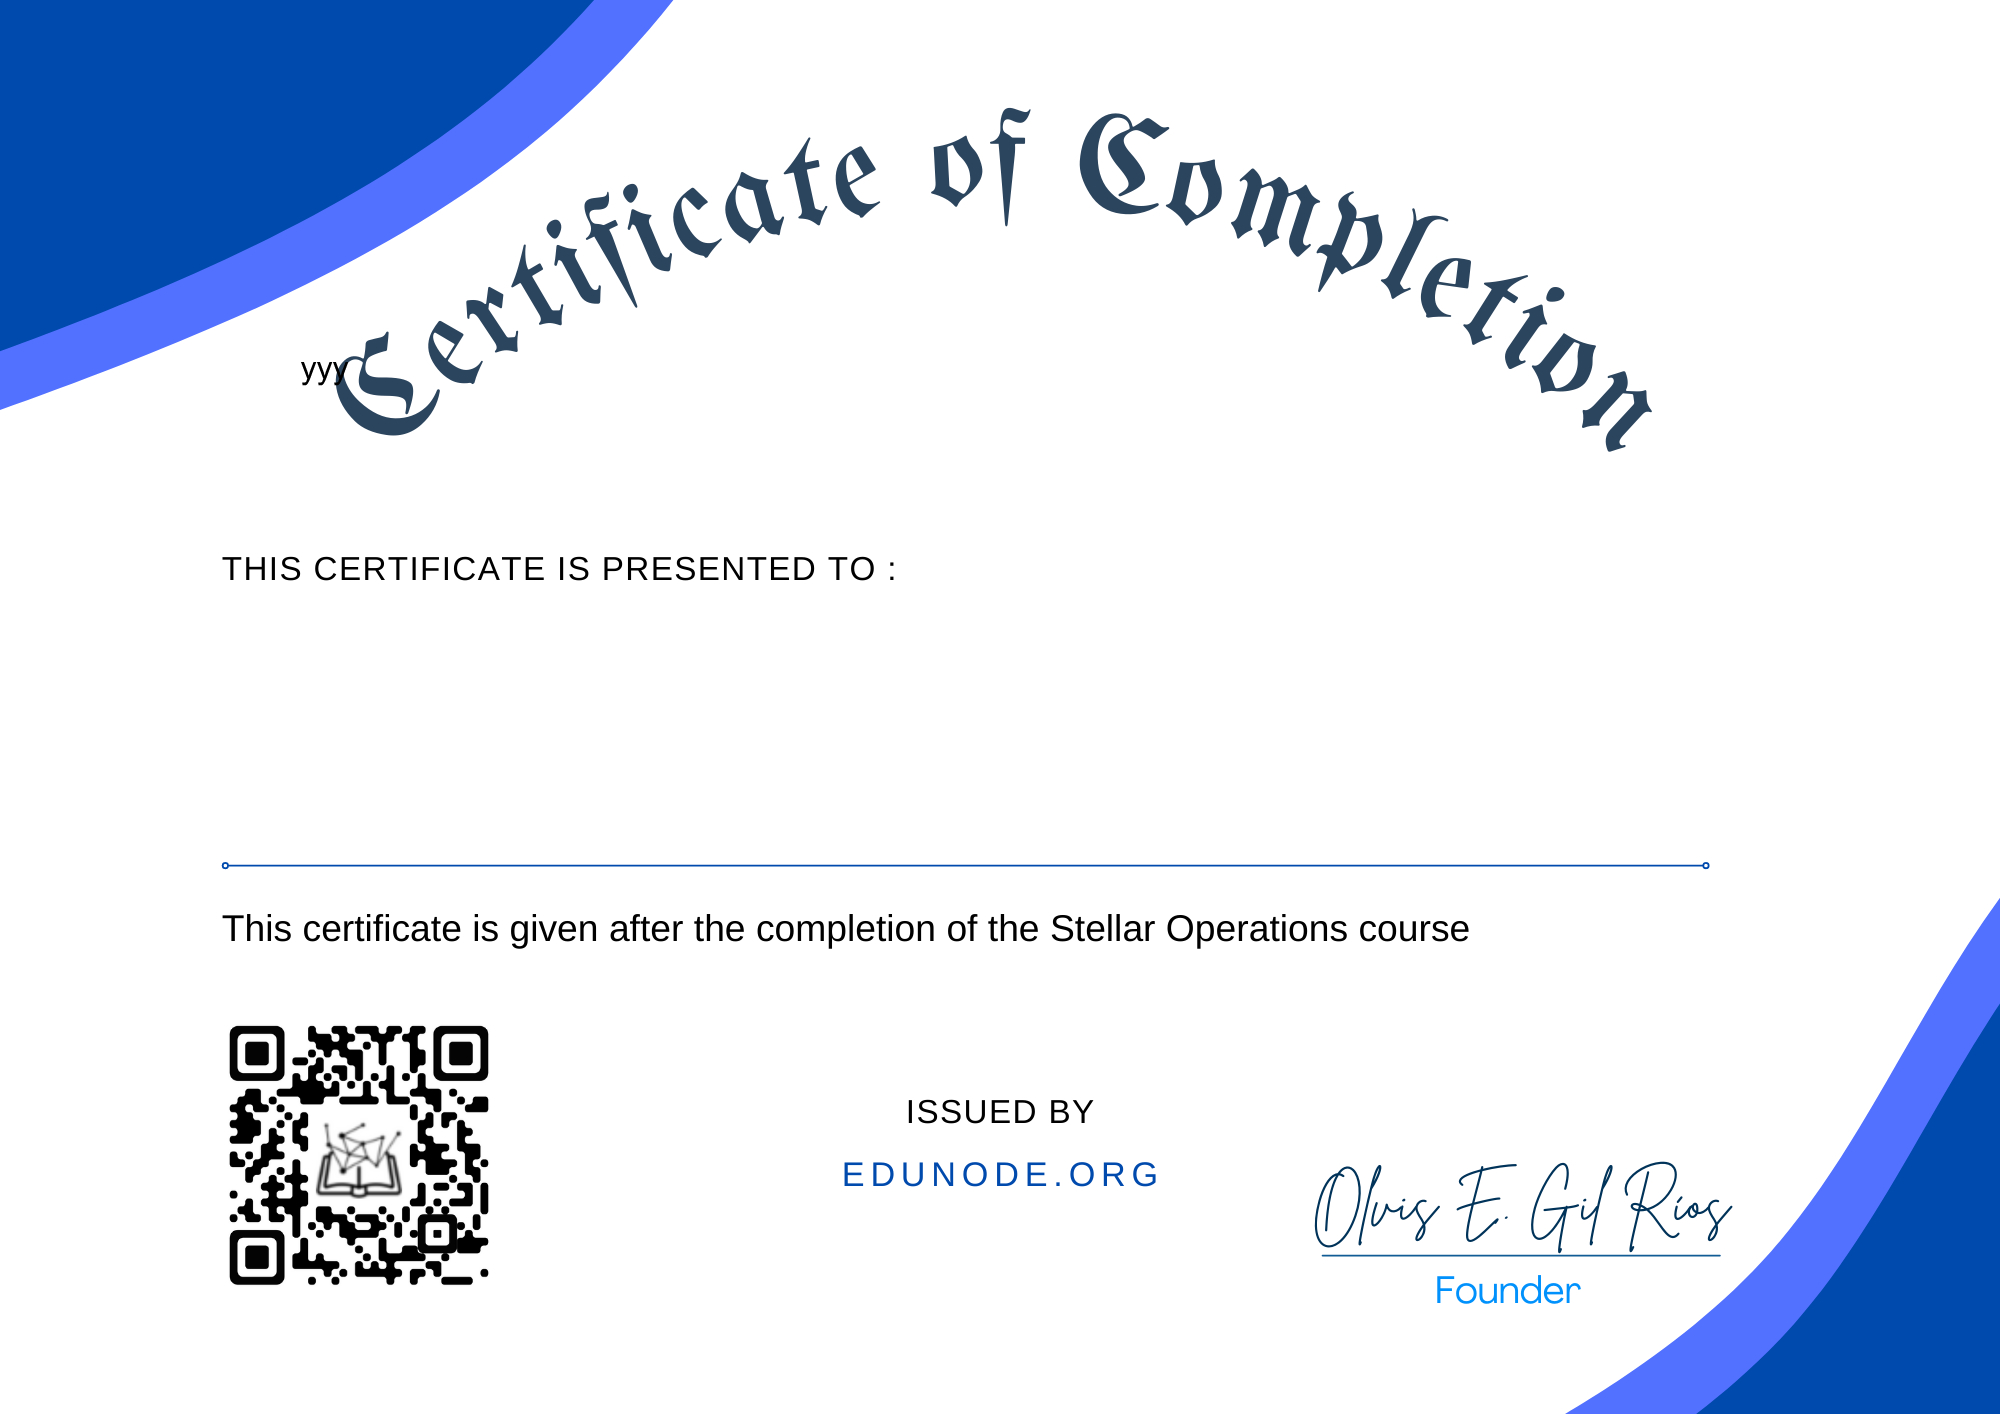
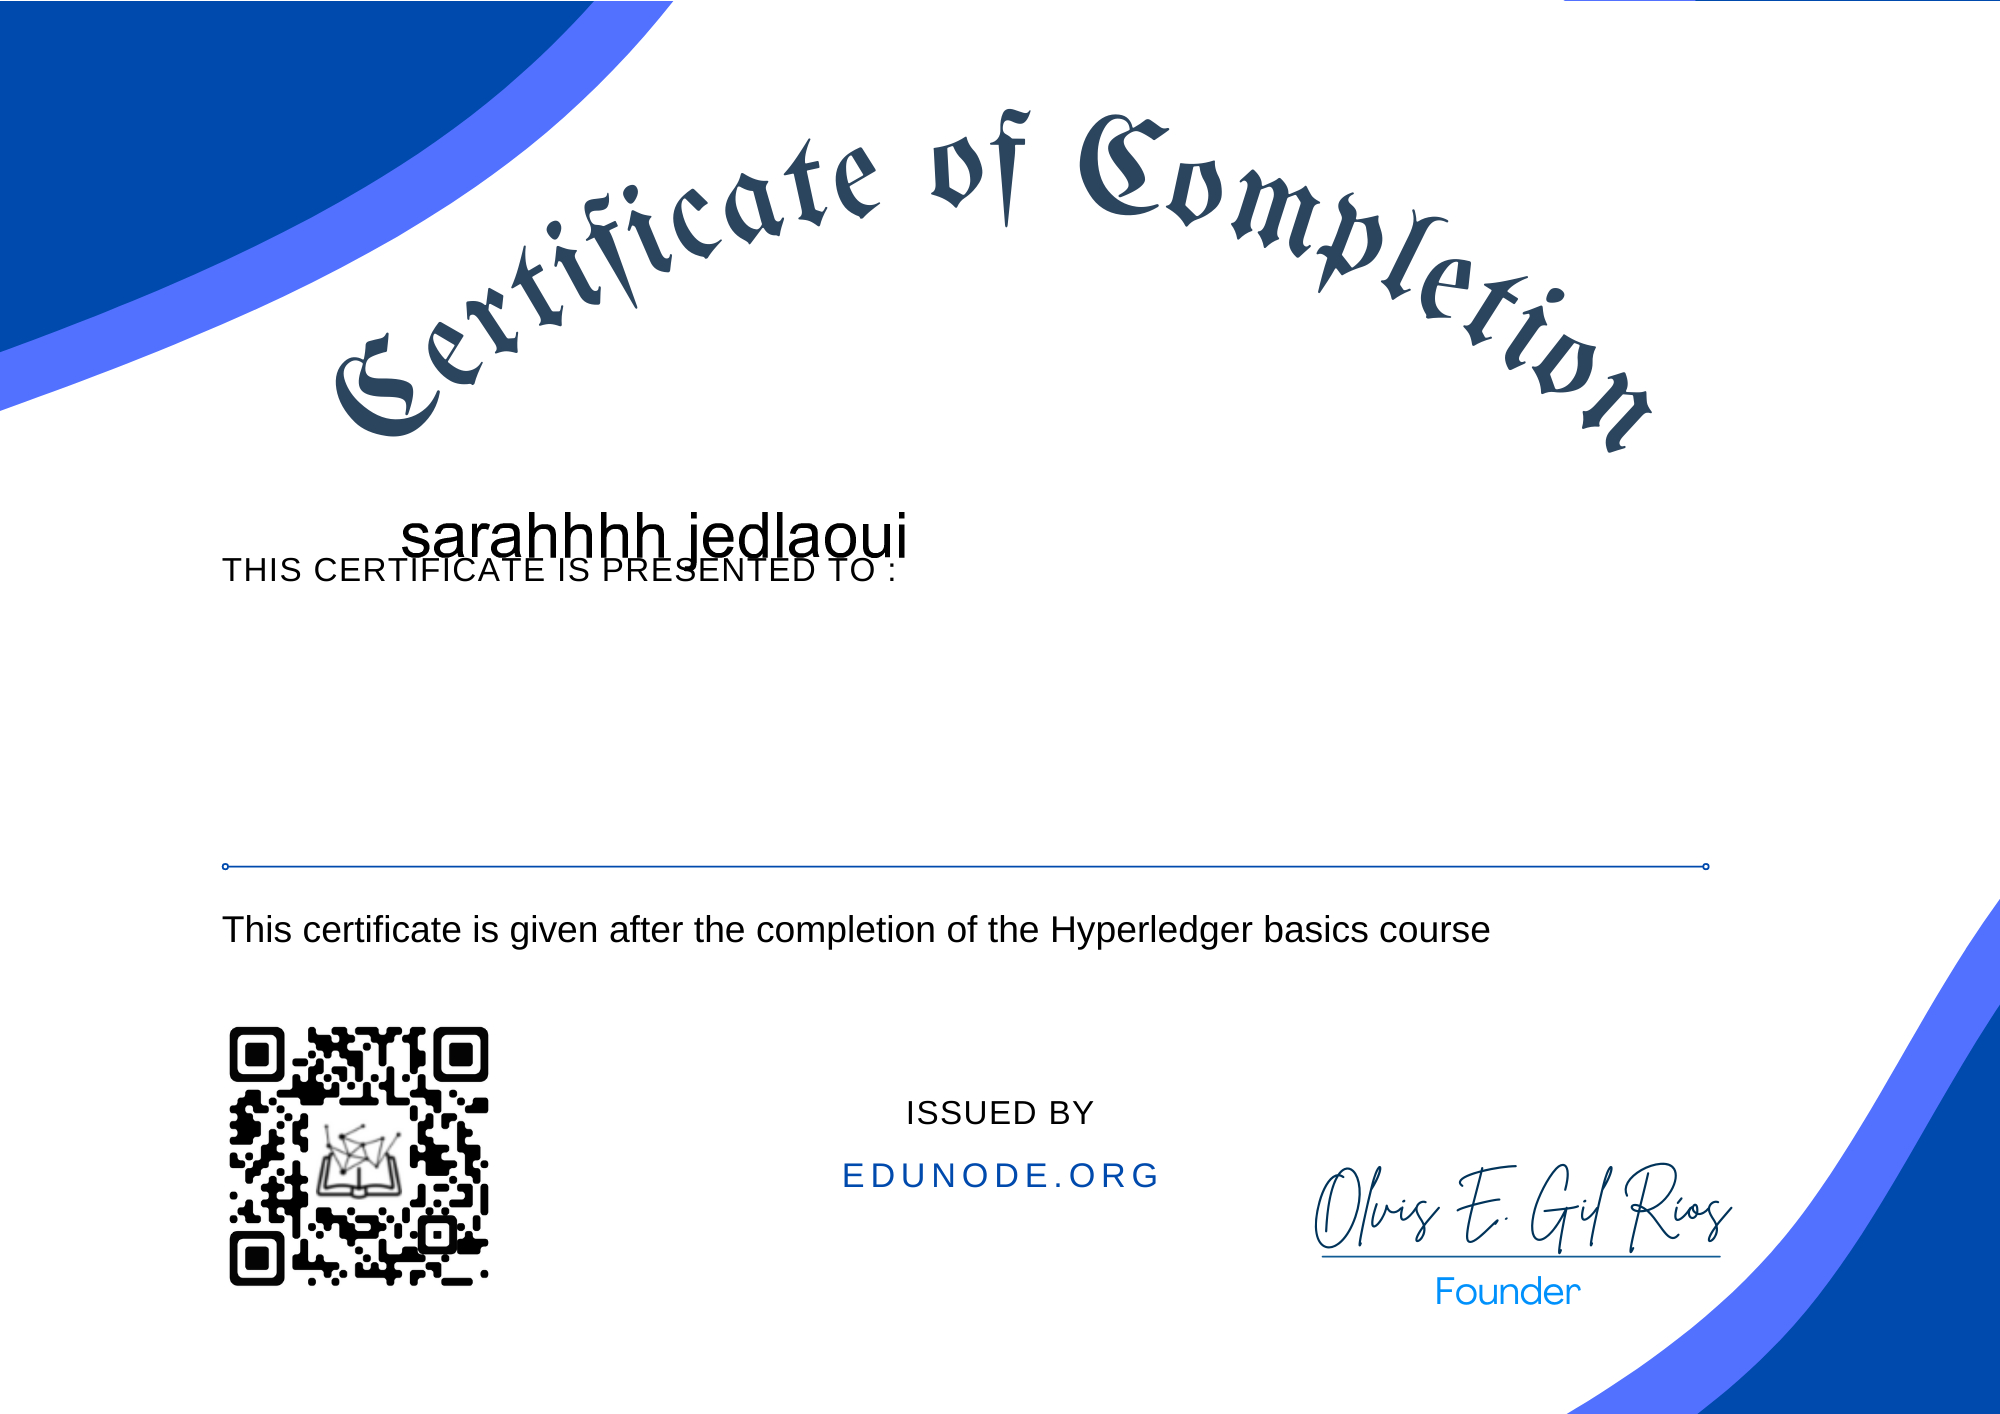
first commit

diff --git a/routes/cours.js b/routes/cours.js
@@ -1,23 +1,25 @@
 const express = require("express");
 const router = express.Router();
 const auth =require('../middleware/auth')
-const Project = require("../models/Project");
+const Cours = require("../models/Cours");
 
-// Create a new project
+// Create a new Cours
 router.post("/", async (req, res) => {
     try {
-      const { title, description, link, image, email } = req.body;
+      const { title, description, link, date, tags,email } = req.body;
       //const authorEmail= req.user.auth.email;
-      const project = new Project({
+      const cours = new Cours({
         title,
         description,
+        date,
         link,
-        image,
+        tags,
         email,
+        // assuming you have a middleware that sets req.user to the currently logged in user
       });
-  
-      await project.save();
-      res.status(201).json(project);
+      
+      await cours.save();
+      res.status(201).json(cours);
     } catch (error) {
       console.log(error);
       res.status(500).json({ error: 'Server error' });
@@ -25,11 +27,11 @@ router.post("/", async (req, res) => {
   });
   
   
-// Get all projects
-router.get("/projects", async (req, res) => {
+// Get all Courss
+router.get("/cours", async (req, res) => {
     try {
-      const projects = await Project.find().populate("author", "_id email");
-      res.send(projects);
+      const Courses = await Cours.find().populate("author", "_id name email");
+      res.send(Courses);
     } catch (error) {
       res.status(500).send({ error: error.message });
     }

diff --git a/models/Cours.js b/models/Cours.js
@@ -1,0 +1,48 @@
+const mongoose = require('mongoose');
+
+const CoursSchema = new mongoose.Schema({
+  
+  
+  title: {
+    type: String,
+    required: true
+  },
+  link: {
+    type: String,
+    required: true
+  },
+  description: {
+    type: String,
+    required: true
+  },
+
+  tags: {
+    type: [String],
+    required: true,
+  },
+  
+  author: {
+    type: mongoose.Schema.Types.ObjectId,
+    ref: "User",
+    required: false,
+    
+  },
+  email: {
+    type: String,
+    required: false,
+  },
+  date: {
+    type: Date,
+    default: Date.now,
+    required: false
+  },
+  
+  
+},
+
+);
+
+const Cours = mongoose.model("Cours", CoursSchema);
+
+
+module.exports = Cours;

diff --git a/server.js b/server.js
@@ -67,6 +67,10 @@ const post = require("./routes/post");
 const certificateRoutes = require("./routes/certificates");
 const profile = require("./routes/profile");
 const project = require("./routes/project");
+const cours = require("./routes/cours");
+
+
+
 
 app.use('/api/gcallback', gcallback);
 app.use('/api/search', search);
@@ -93,6 +97,6 @@ app.use("/api/post", post);
 app.use("/api/certificates", certificateRoutes);
 app.use("/api/profile", profile);
 app.use("/api/project", project);
-
+app.use("/api/cours", cours);
 
 app.listen(PORT, () => console.log(`server started at ${PORT}`))

diff --git a/routes/certificates.js b/routes/certificates.js
@@ -426,8 +426,8 @@ router.post("/diploma4", async (req, res) => {
 
     const client = new Web3Storage({ token })
     const img = await Jimp.read('hyperledger.png')
-    const font = await Jimp.loadFont(Jimp.FONT_SANS_32_BLACK)
-    img.print(font, 150, 350, req.body.name);
+    const font = await Jimp.loadFont(Jimp.FONT_SANS_64_BLACK)
+    img.print(font, 400, 500, req.body.name);
     img.write('newdiplomav2.jpg'); // save
 
     const putFilesToWeb3Storage = async () => {
